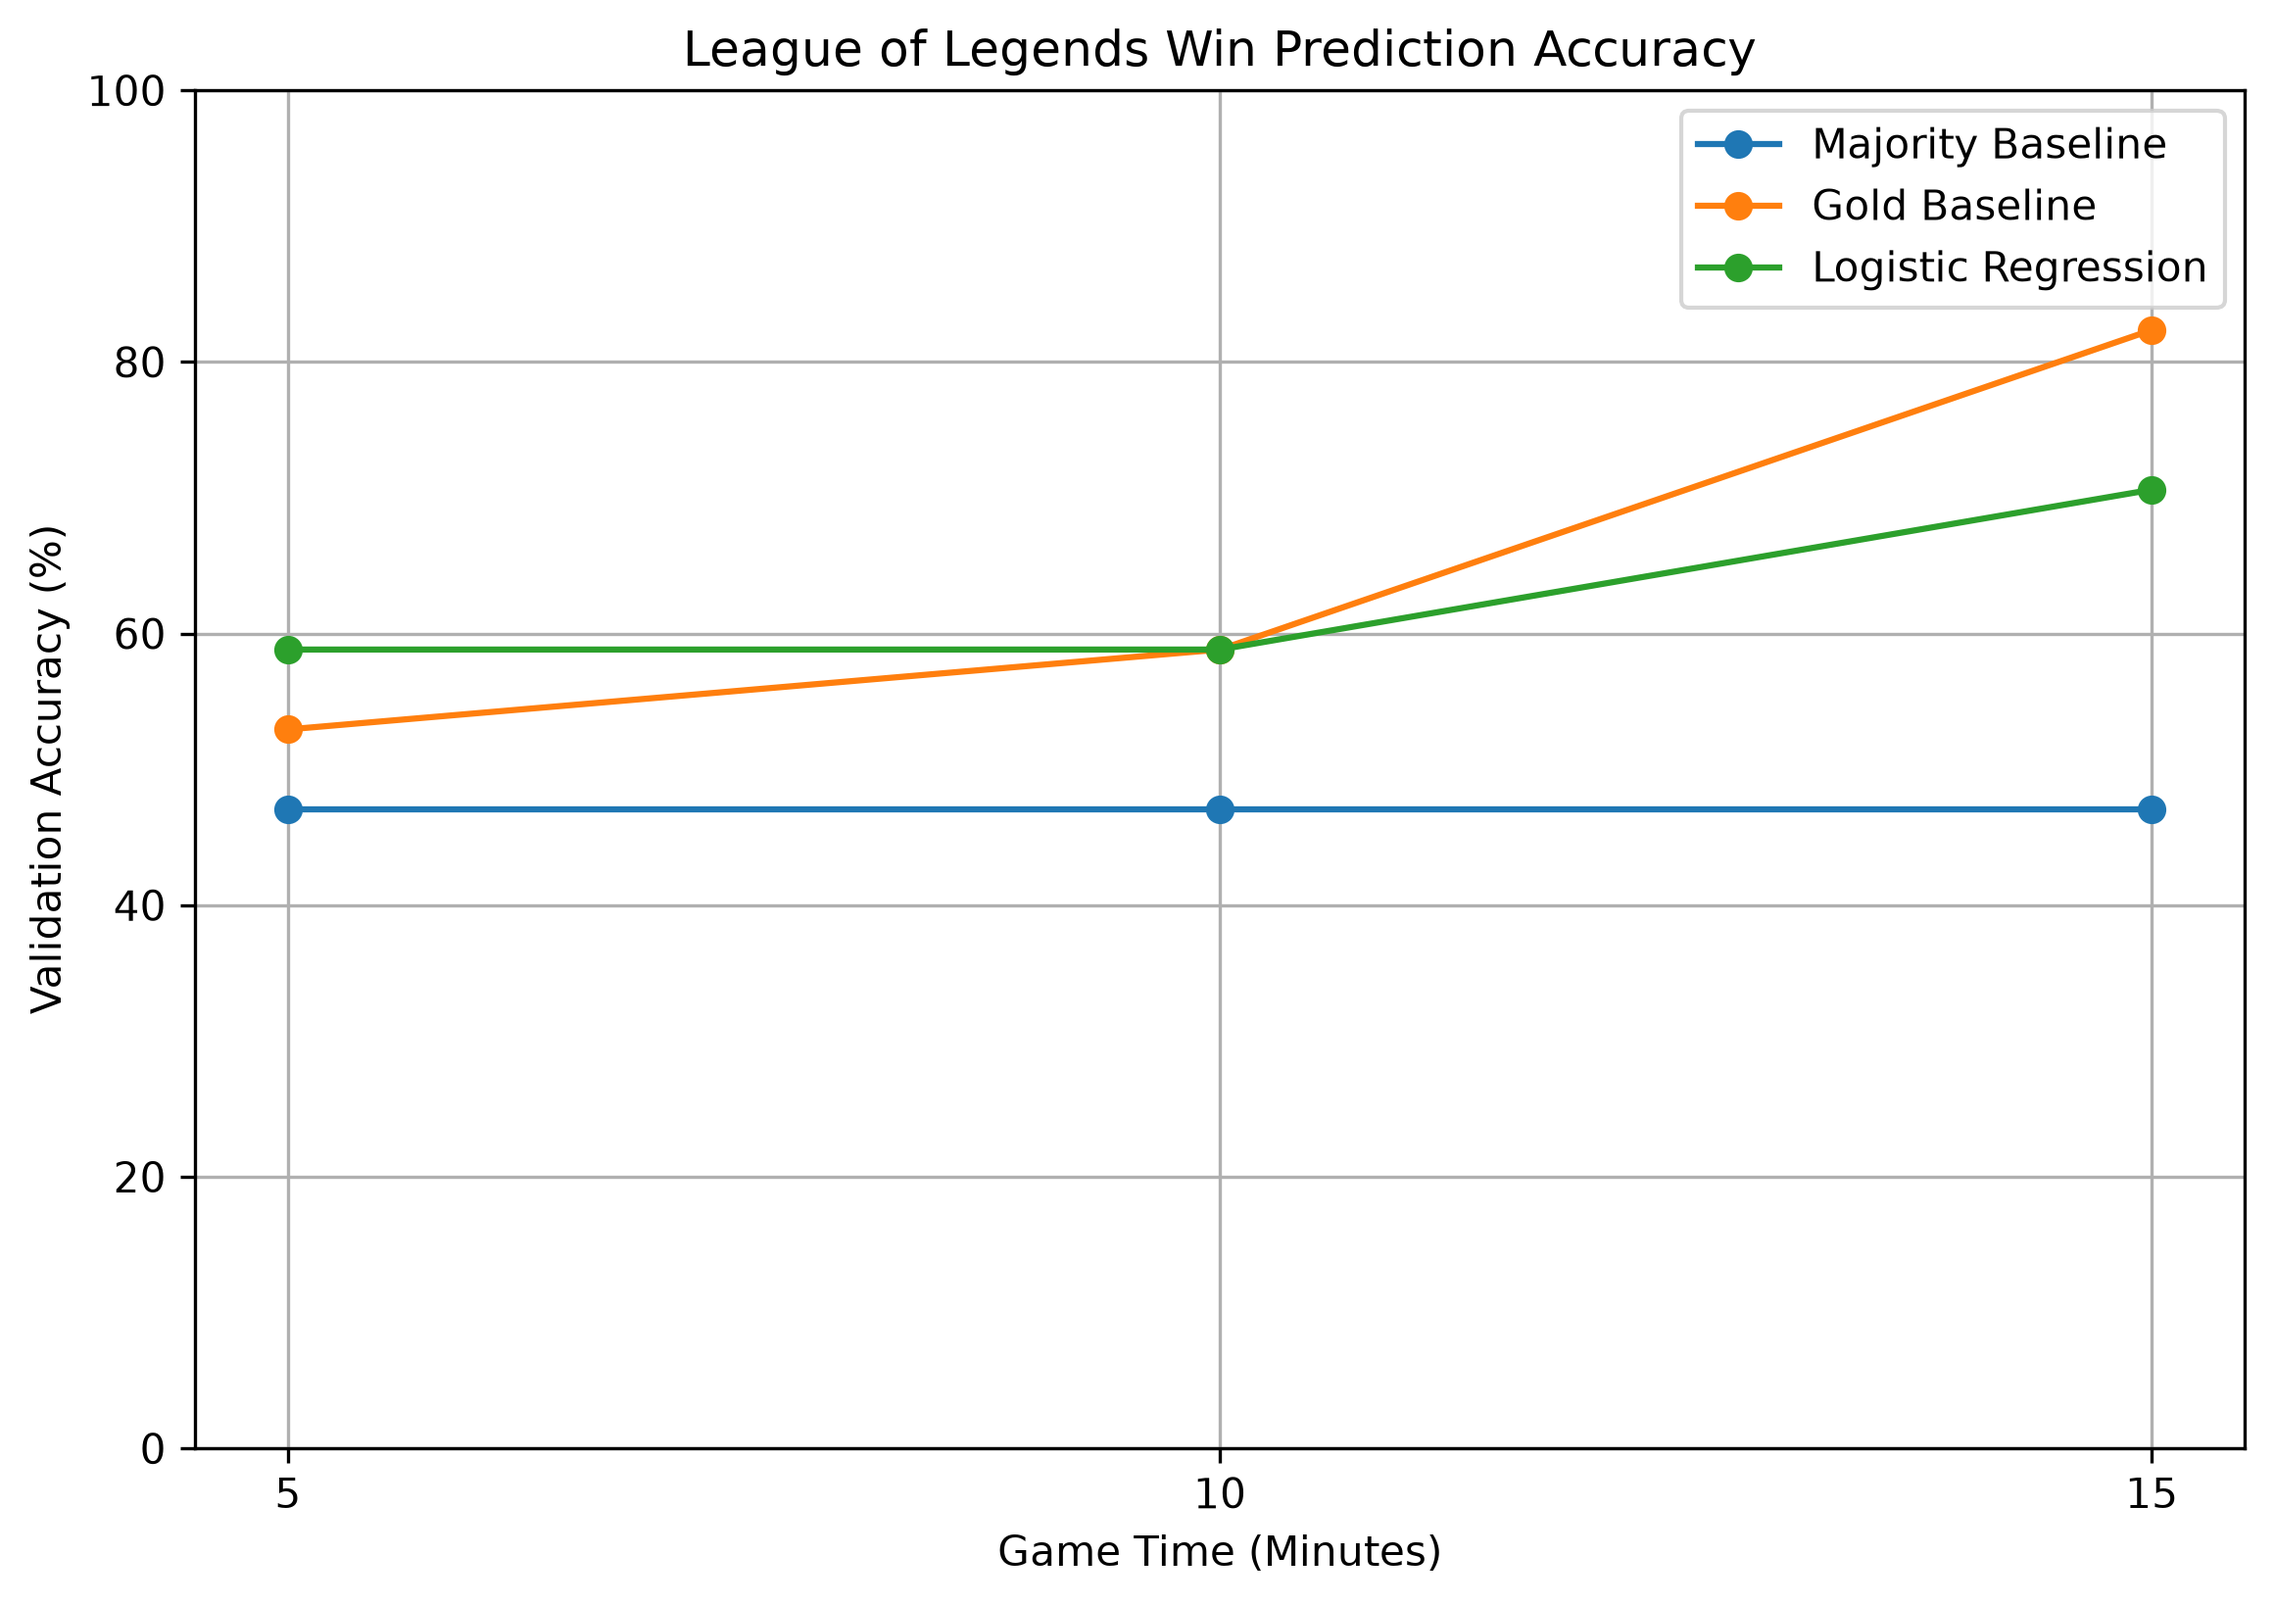
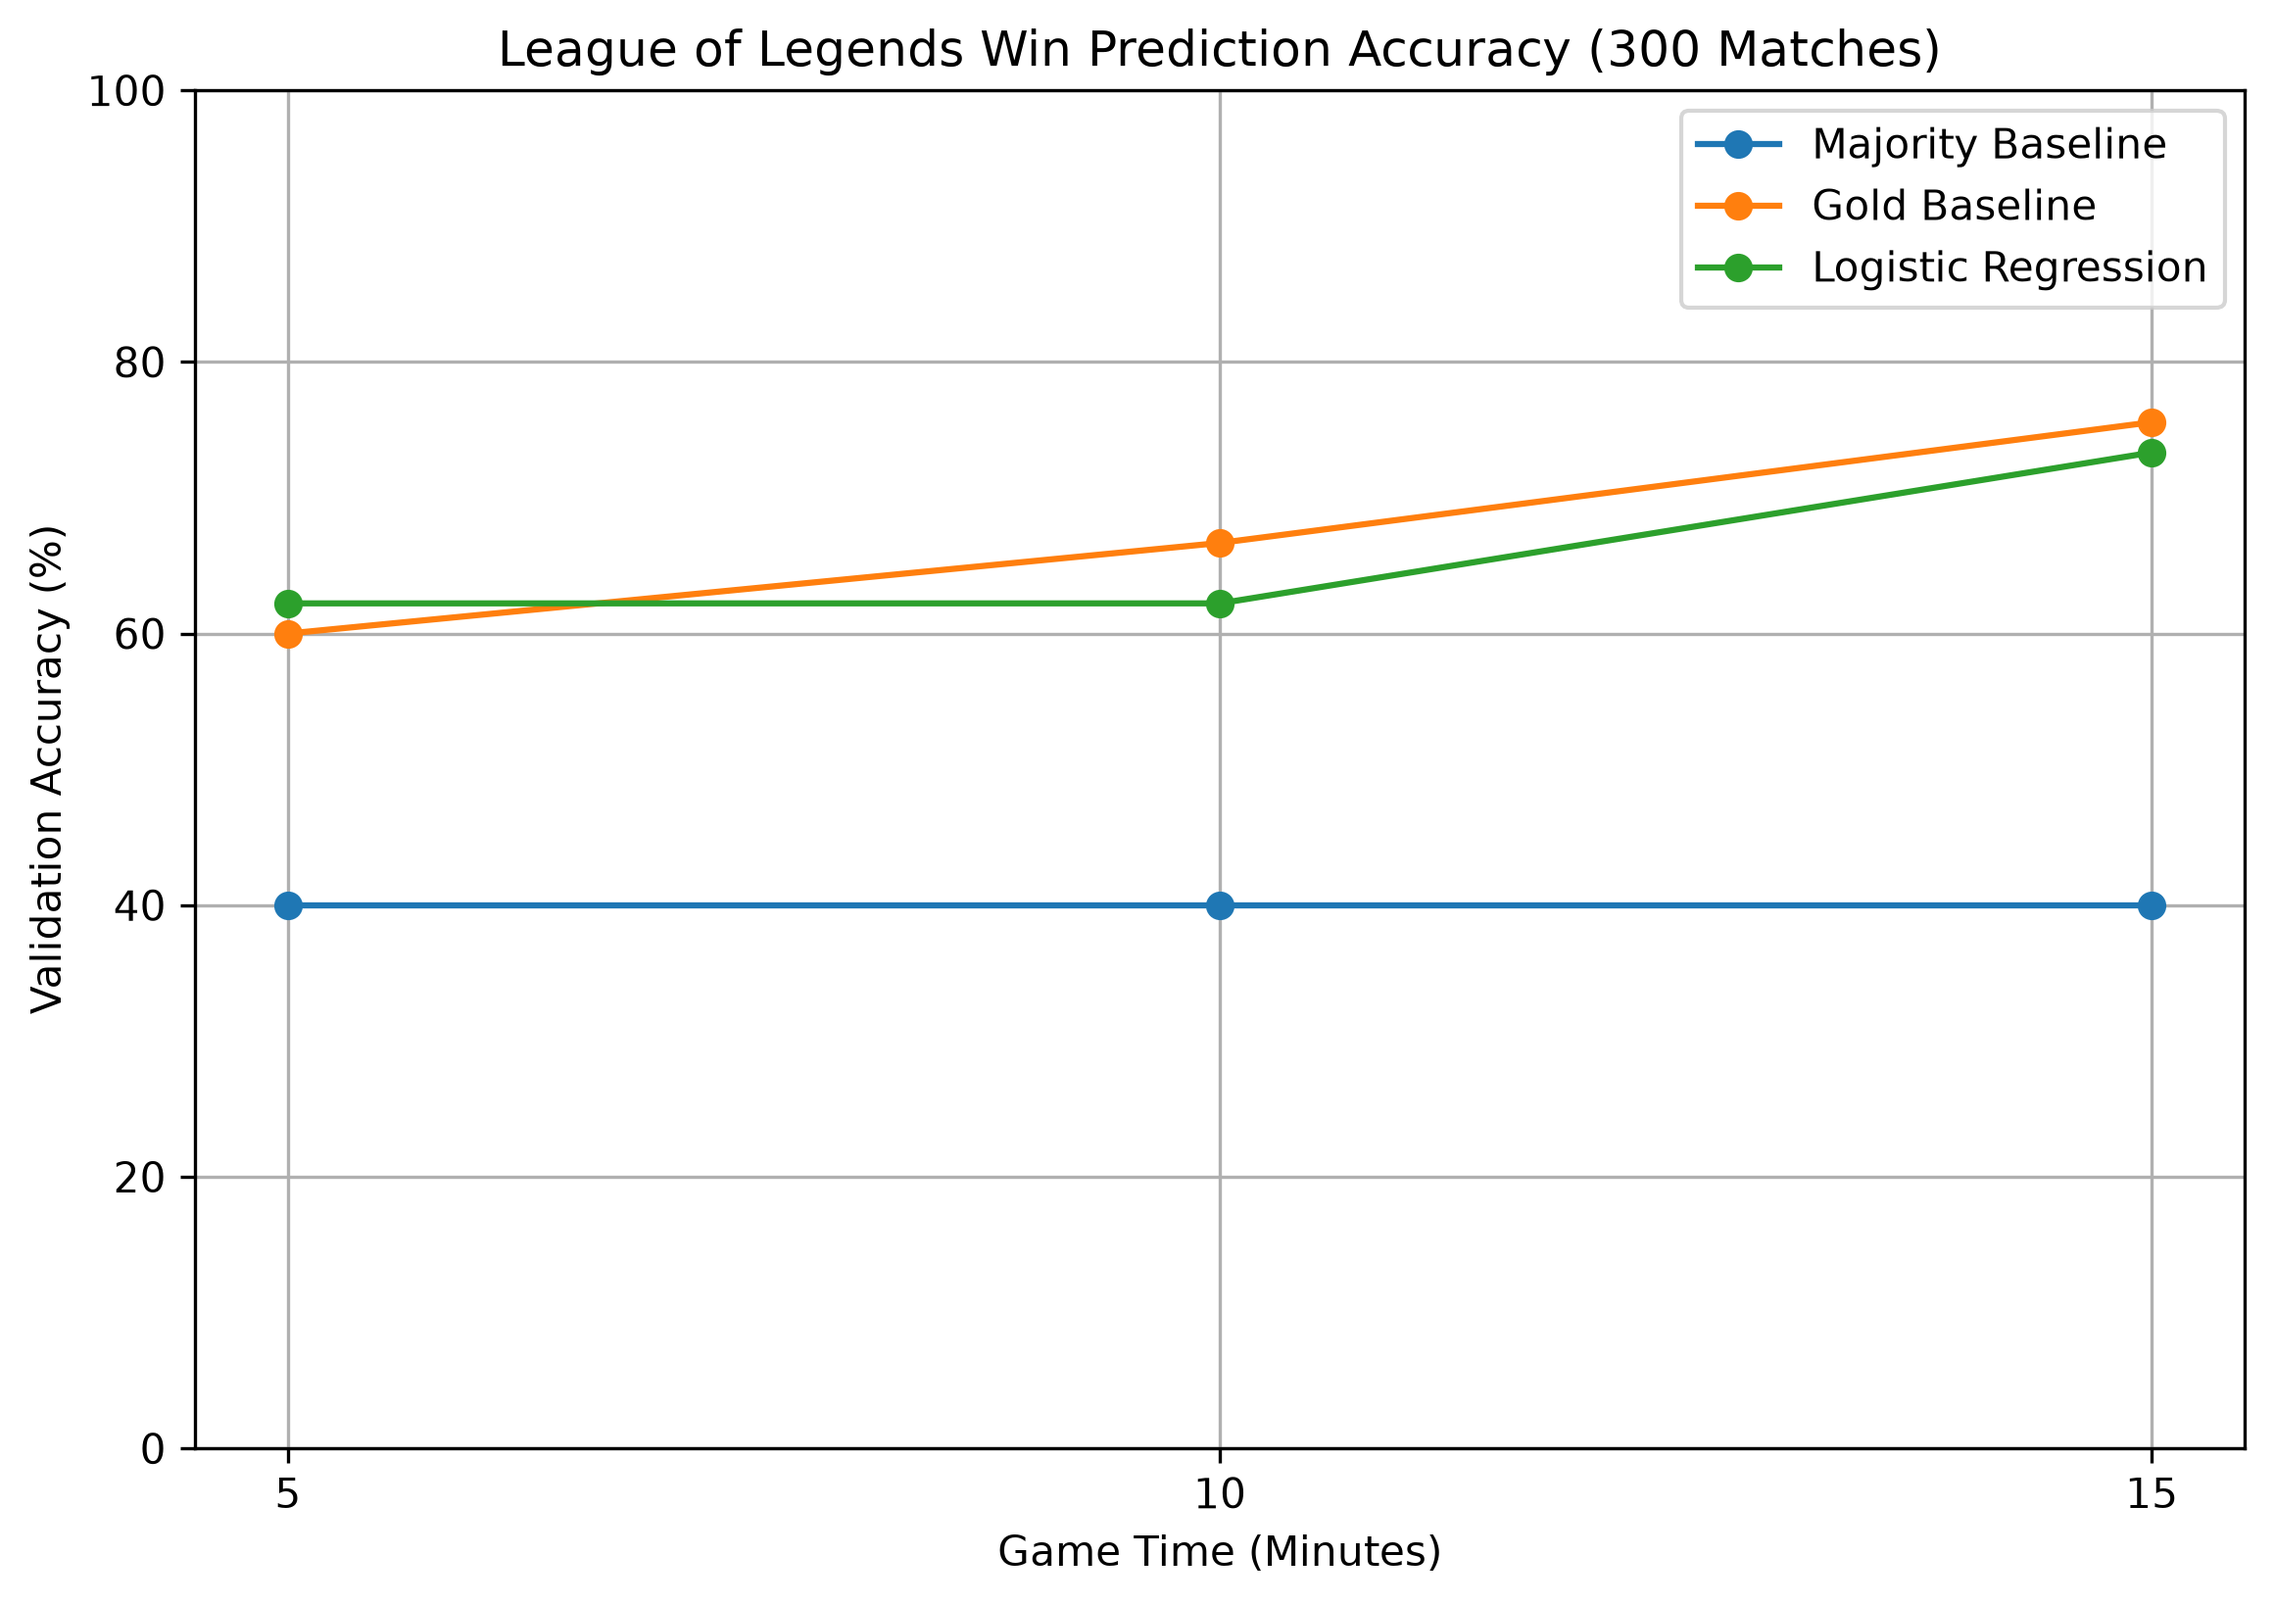
Update validation results for 300 matches

diff --git a/src/plot_results.py b/src/plot_results.py
@@ -2,9 +2,9 @@ import matplotlib.pyplot as plt
 from pathlib import Path
 
 minutes = [5, 10, 15]
-majority_accuracy = [47.06, 47.06, 47.06]
-gold_accuracy = [52.94, 58.82, 82.35]
-logistic_accuracy = [58.82, 58.82, 70.59]
+majority_accuracy = [40.00, 40.00, 40.00]
+gold_accuracy = [60.00, 66.67, 75.56]
+logistic_accuracy = [62.22, 62.22, 73.33]
 
 plt.figure(figsize=(9, 6))
 plt.plot(minutes, majority_accuracy, marker='o',
@@ -13,7 +13,7 @@ plt.plot(minutes, gold_accuracy, marker="o",
          label="Gold Baseline")
 plt.plot(minutes, logistic_accuracy, marker="o",
          label="Logistic Regression")
-plt.title("League of Legends Win Prediction Accuracy")
+plt.title("League of Legends Win Prediction Accuracy (300 Matches)")
 plt.xlabel("Game Time (Minutes)")
 plt.ylabel("Validation Accuracy (%)")
 plt.xticks(minutes)
